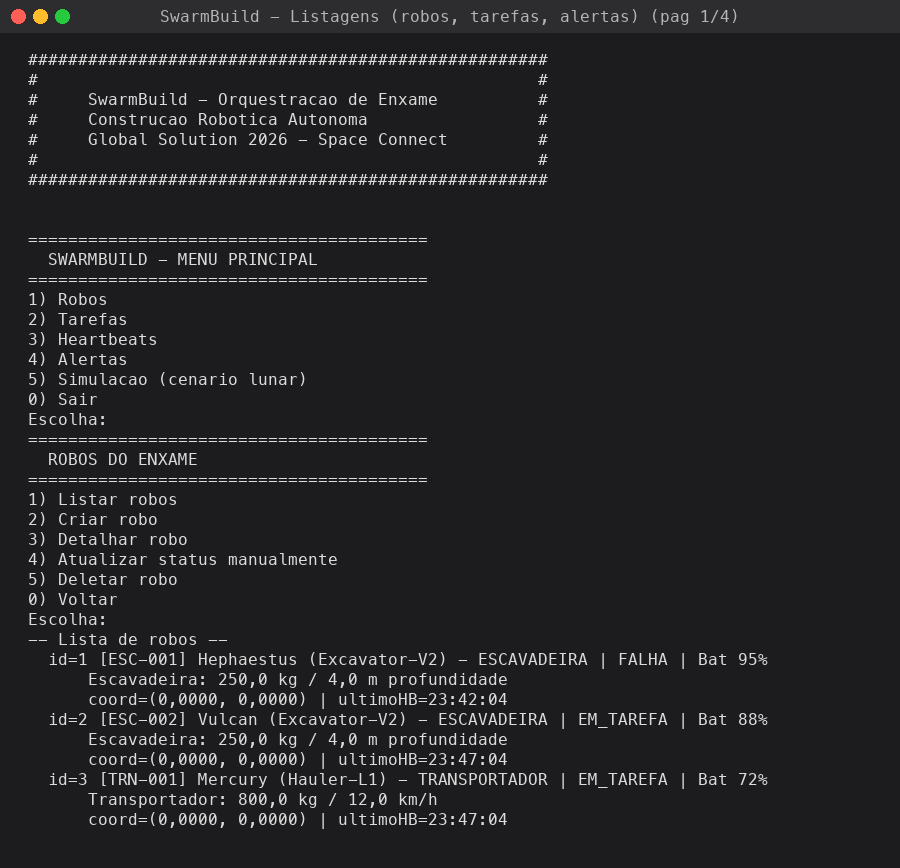
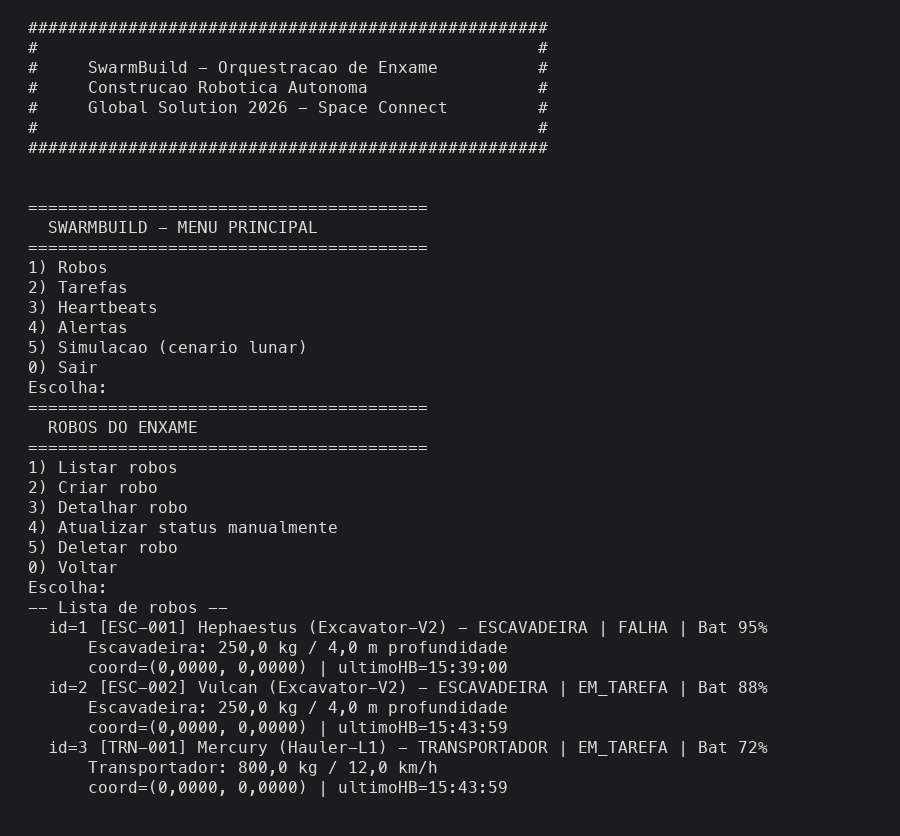
first commit

diff --git a/docs/gerar-prints.py b/docs/gerar-prints.py
@@ -7,6 +7,8 @@ Cores reais do terminal (Console.ForegroundColor em ConsoleUtils.cs):
   EscreverErro    -> Red     (linhas "ERRO: ..."  - cobre "ERRO: [MONITOR] ...")
 Nenhuma outra coisa (titulos, subtitulos, banner, CRITICO) tem cor no terminal real,
 entao nao colorimos para que o PNG bata 1:1 com a execucao interativa.
+
+Saida: PNG so com o corpo do terminal (sem barra de janela / titulo falso).
 """
 
 from PIL import Image, ImageDraw, ImageFont
@@ -20,21 +22,14 @@ OUT = EVID
 
 BG = (28, 28, 30)           # macOS Terminal dark
 FG = (220, 220, 220)
-HEADER_BG = (45, 45, 47)
-TITLE_FG = (180, 180, 180)
 PADDING_X = 28
 PADDING_Y = 18
-HEADER_H = 32
 LINE_SPACING = 4
 
 FONT_SIZE = 16
 LINE_HEIGHT = FONT_SIZE + LINE_SPACING
 
-COLOR_RULES = [
-    (re.compile(r"^OK:"), (130, 220, 120)),
-    (re.compile(r"^AVISO:"), (240, 200, 90)),
-    (re.compile(r"^ERRO:"), (240, 120, 110)),
-]
+COLOR_RULES = []  # sem coloração: tudo branco no fundo escuro
 
 
 def encontrar_fonte():
@@ -50,7 +45,6 @@ def encontrar_fonte():
 
 
 FONT = encontrar_fonte()
-FONT_TITLE = encontrar_fonte()
 
 LARGURA_MAX_CARACTERES = 110
 
@@ -87,23 +81,15 @@ def cor_da_linha(linha: str):
     return FG
 
 
-def renderizar(linhas, titulo: str, caminho_saida: Path):
+def renderizar(linhas, caminho_saida: Path):
     largura_max = max((medir_largura(l) for l in linhas), default=200)
     largura = max(900, largura_max + PADDING_X * 2)
-    altura = HEADER_H + PADDING_Y * 2 + len(linhas) * LINE_HEIGHT
+    altura = PADDING_Y * 2 + len(linhas) * LINE_HEIGHT
 
     img = Image.new("RGB", (largura, altura), BG)
     draw = ImageDraw.Draw(img)
 
-    draw.rectangle([(0, 0), (largura, HEADER_H)], fill=HEADER_BG)
-    cy = HEADER_H // 2
-    for cx, cor in [(18, (255, 95, 86)), (40, (255, 189, 46)), (62, (39, 201, 63))]:
-        draw.ellipse([(cx - 7, cy - 7), (cx + 7, cy + 7)], fill=cor)
-    tw = medir_largura(titulo)
-    draw.text(((largura - tw) // 2, (HEADER_H - FONT_SIZE) // 2 - 1),
-              titulo, fill=TITLE_FG, font=FONT_TITLE)
-
-    y = HEADER_H + PADDING_Y
+    y = PADDING_Y
     for linha in linhas:
         draw.text((PADDING_X, y), linha, fill=cor_da_linha(linha), font=FONT)
         y += LINE_HEIGHT
@@ -141,16 +127,15 @@ def normalizar(texto: str) -> list[str]:
     return linhas
 
 
-def processar(arquivo: Path, titulo_base: str, max_linhas_por_pagina: int):
+def processar(arquivo: Path, max_linhas_por_pagina: int):
     linhas = normalizar(arquivo.read_text(encoding="utf-8"))
     paginas = quebrar_em_paginas(linhas, max_linhas_por_pagina)
     nome_base = arquivo.stem
     saidas = []
     for idx, pagina in enumerate(paginas, start=1):
         sufixo = "" if len(paginas) == 1 else f"-pag{idx}"
-        titulo = titulo_base if len(paginas) == 1 else f"{titulo_base} (pag {idx}/{len(paginas)})"
         caminho = OUT / f"{nome_base}{sufixo}.png"
-        renderizar(pagina, titulo, caminho)
+        renderizar(pagina, caminho)
         saidas.append(caminho)
     return saidas
 
@@ -158,16 +143,16 @@ def processar(arquivo: Path, titulo_base: str, max_linhas_por_pagina: int):
 def main():
     EVID.mkdir(parents=True, exist_ok=True)
     pacotes = [
-        ("01-cenario-completo.txt", "SwarmBuild - Cenario completo de realocacao automatica", 45),
-        ("02-listagens.txt", "SwarmBuild - Listagens (robos, tarefas, alertas)", 50),
-        ("03-erro-codigo-duplicado.txt", "SwarmBuild - Tratamento de excecao (codigo duplicado)", 60),
+        ("01-cenario-completo.txt", 45),
+        ("02-listagens.txt", 50),
+        ("03-erro-codigo-duplicado.txt", 60),
     ]
-    for nome, titulo, max_linhas in pacotes:
+    for nome, max_linhas in pacotes:
         arquivo = EVID / nome
         if not arquivo.exists():
             print(f"[pulando] {arquivo} nao existe.")
             continue
-        for saida in processar(arquivo, titulo, max_linhas):
+        for saida in processar(arquivo, max_linhas):
             print(f"[ok] {saida.relative_to(BASE.parent)}")
 
 
